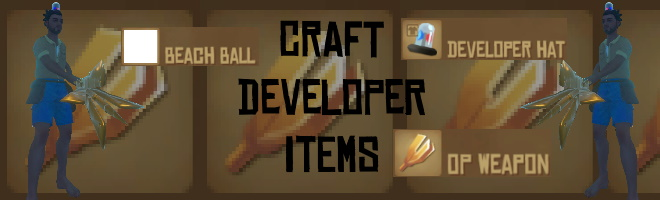
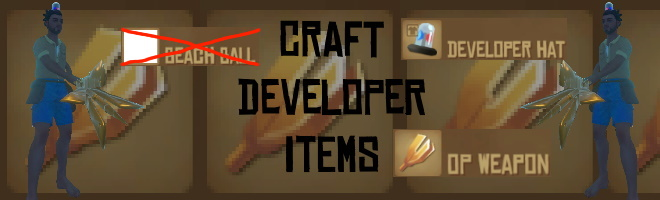
Updated Version 1.3
*Removed Beach Ball Recipe
*Fixed Recipes

Changed region(s): [[0.1818, 0.12, 0.3939, 0.33], [0.3636, 0.3, 0.3939, 0.33], [0.3333, 0.27, 0.3636, 0.3]]

diff --git a/CraftDeveloperItems/CraftDevItems.cs b/CraftDeveloperItems/CraftDevItems.cs
@@ -8,78 +8,34 @@ public class CraftDevItems : Mod
 {
     public void Start()
     {
-        CreateRecipe(ItemManager.GetItemByName("DevSpear"), 1);
-        CreateRecipe1(ItemManager.GetItemByName("BeachBall"), 1);
-        CreateRecipe2(ItemManager.GetItemByName("DevHat"), 1);
+        Item_Base[] metalItem = new Item_Base[] { ItemManager.GetItemByName("MetalIngot") };
+        Item_Base[] copperItem = new Item_Base[] { ItemManager.GetItemByName("CopperIngot") };
+        Item_Base[] titaniumItem = new Item_Base[] { ItemManager.GetItemByName("TitaniumIngot") };
+        Item_Base[] glassItem = new Item_Base[] { ItemManager.GetItemByName("Glass") };
+        Item_Base[] redFlowerItem = new Item_Base[] { ItemManager.GetItemByName("Flower_Red") };
+        Item_Base[] blueFlowerItem = new Item_Base[] { ItemManager.GetItemByName("Flower_Blue") };
+        Item_Base[] nailItem = new Item_Base[] { ItemManager.GetItemByName("Nail") };
+        Item_Base[] scrapItem = new Item_Base[] { ItemManager.GetItemByName("Scrap") };
+        Item_Base[] plasticItem = new Item_Base[] { ItemManager.GetItemByName("Plastic") };
+        CreateRecipe(ItemManager.GetItemByName("DevSpear"), 1, new CostMultiple(metalItem, 60), new CostMultiple(copperItem, 40), new CostMultiple(titaniumItem, 20));
+        CreateRecipe(ItemManager.GetItemByName("Hat_Dev"), 1, new CostMultiple(glassItem, 2), new CostMultiple(redFlowerItem, 6), new CostMultiple(blueFlowerItem, 6), new CostMultiple(nailItem, 1), new CostMultiple(scrapItem, 2), new CostMultiple(plasticItem, 10));
+
+
         Debug.Log("Mod Craft Dev Items has been loaded!");
-        allowItems("");
-        allowItems2("");
-        allowItems3("");
-    }
-    private void allowItems(params string[] validItemNames)
-    {
-        var metalItem = ItemManager.GetItemByName("MetalIngot");
-        var metalIngredient = new CostMultiple(new Item_Base[] { metalItem }, 60);
-
-        var copperItem = ItemManager.GetItemByName("CopperIngot");
-        var copperIngredient = new CostMultiple(new Item_Base[] { copperItem }, 40);
-
-        var titaniumItem = ItemManager.GetItemByName("TitaniumIngot");
-        var titaniumIngredient = new CostMultiple(new Item_Base[] { titaniumItem }, 20);
-
-        var dev = ItemManager.GetItemByName("DevSpear");
-        dev.settings_recipe.NewCost = new CostMultiple[] { metalIngredient, copperIngredient, titaniumIngredient };
     }
 
-    private void allowItems2(params string[] validItemNames)
-    {
-        var plasticItem = ItemManager.GetItemByName("Plastic");
-        var plasticIngredient = new CostMultiple(new Item_Base[] { plasticItem }, 10);
-
-        var plastic = ItemManager.GetItemByName("BeachBall");
-        plastic.settings_recipe.NewCost = new CostMultiple[] { plasticIngredient };
-    }
-
-    private void allowItems3(params string[] validItemNames)
-    {
-        var glassItem = ItemManager.GetItemByName("Glass");
-        var glassIngredient = new CostMultiple(new Item_Base[] { glassItem }, 2);
-
-        var redItem = ItemManager.GetItemByName("Flower_Red");
-        var redIngredient = new CostMultiple(new Item_Base[] { redItem }, 6);
-
-        var blueItem = ItemManager.GetItemByName("Flower_Blue");
-        var blueIngredient = new CostMultiple(new Item_Base[] { blueItem }, 6);
-
-        var nailItem = ItemManager.GetItemByName("Nail");
-        var nailIngredient = new CostMultiple(new Item_Base[] { nailItem }, 1);
-
-        var scrapItem = ItemManager.GetItemByName("Scrap");
-        var scrapIngredient = new CostMultiple(new Item_Base[] { scrapItem }, 2);
-
-        var plasticItem = ItemManager.GetItemByName("Plastic");
-        var plasticIngredient = new CostMultiple(new Item_Base[] { plasticItem }, 10);
-
-        var hat = ItemManager.GetItemByName("DevHat");
-        hat.settings_recipe.NewCost = new CostMultiple[] { glassIngredient, redIngredient, blueIngredient, nailIngredient, scrapIngredient, plasticIngredient };
-    }
-
+    /// <summary>
+    /// Function creating a new recipe setting with new recipe.
+    /// </summary>
     /// <param name="pResultItem">Item resulting from the crafting.</param>
-    public static void CreateRecipe(Item_Base pResultItem, int pAmount)
+    /// <param name="pAmount">Crafting-Output Amount.</param>
+    /// <param name="pCosts">Crafting costs.</param>
+    public static void CreateRecipe(Item_Base pResultItem, int pAmount, params CostMultiple[] pCosts)
     {
-        Traverse.Create(pResultItem.settings_recipe).Field("craftingCategory").SetValue(CraftingCategory.Weapons);
-        Traverse.Create(pResultItem.settings_recipe).Field("amountToCraft").SetValue(pAmount);
-    }
-
-    public static void CreateRecipe1(Item_Base pResultItem, int pAmount)
-    {
+        Traverse.Create(pResultItem.settings_recipe).Field("newCostToCraft").SetValue(pCosts);
+        Traverse.Create(pResultItem.settings_recipe).Field("learned").SetValue(false);
+        Traverse.Create(pResultItem.settings_recipe).Field("learnedFromBeginning").SetValue(false);
         Traverse.Create(pResultItem.settings_recipe).Field("craftingCategory").SetValue(CraftingCategory.Other);
-        Traverse.Create(pResultItem.settings_recipe).Field("amountToCraft").SetValue(pAmount);
-    }
-
-    public static void CreateRecipe2(Item_Base pResultItem, int pAmount)
-    {
-        Traverse.Create(pResultItem.settings_recipe).Field("craftingCategory").SetValue(CraftingCategory.Equipment);
         Traverse.Create(pResultItem.settings_recipe).Field("amountToCraft").SetValue(pAmount);
     }
 
